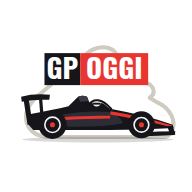
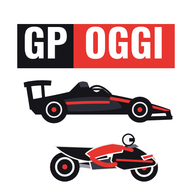
Nuova icona dell'app: etichetta, monoposto e moto senza la pista tagliata
Claude-Session: https://claude.ai/code/session_01LSjs3G4VKcQCCA7ZSvC7tc

diff --git a/docs/index.html b/docs/index.html
@@ -4,8 +4,8 @@
 <meta charset="utf-8">
 <meta name="viewport" content="width=device-width, initial-scale=1">
 <script>try{var t=null,q=/[?&]tema=(light|dark)/.exec(location.search);if(q)t=q[1];try{if(t)localStorage.setItem("tema",t);else t=localStorage.getItem("tema")}catch(e){}if(!t){var m=/(?:^|;)gpoggi-tema=(light|dark)/.exec(window.name);t=m&&m[1]}document.documentElement.dataset.theme=t||"light"}catch(e){document.documentElement.dataset.theme="light"}</script>
-<link rel="icon" type="image/png" href="img/favicon-64.png">
-<link rel="apple-touch-icon" href="img/apple-touch-icon.png">
+<link rel="icon" type="image/png" href="img/favicon-64.png?v=2">
+<link rel="apple-touch-icon" href="img/apple-touch-icon.png?v=2">
 <link rel="manifest" href="manifest.json">
 <meta name="theme-color" content="#f5f4f0">
 <title>GP Oggi — Formula 1 e MotoGP, tutto in un posto</title>

diff --git a/docs/gare.html b/docs/gare.html
@@ -4,8 +4,8 @@
 <meta charset="utf-8">
 <meta name="viewport" content="width=device-width, initial-scale=1">
 <script>try{var t=null,q=/[?&]tema=(light|dark)/.exec(location.search);if(q)t=q[1];try{if(t)localStorage.setItem("tema",t);else t=localStorage.getItem("tema")}catch(e){}if(!t){var m=/(?:^|;)gpoggi-tema=(light|dark)/.exec(window.name);t=m&&m[1]}document.documentElement.dataset.theme=t||"light"}catch(e){document.documentElement.dataset.theme="light"}</script>
-<link rel="icon" type="image/png" href="img/favicon-64.png">
-<link rel="apple-touch-icon" href="img/apple-touch-icon.png">
+<link rel="icon" type="image/png" href="img/favicon-64.png?v=2">
+<link rel="apple-touch-icon" href="img/apple-touch-icon.png?v=2">
 <link rel="manifest" href="manifest.json">
 <meta name="theme-color" content="#f5f4f0">
 <title>Calendario F1 — Weekend di gara | GP Oggi</title>

diff --git a/docs/storico-moto.html b/docs/storico-moto.html
@@ -4,8 +4,8 @@
 <meta charset="utf-8">
 <meta name="viewport" content="width=device-width, initial-scale=1">
 <script>try{var t=null,q=/[?&]tema=(light|dark)/.exec(location.search);if(q)t=q[1];try{if(t)localStorage.setItem("tema",t);else t=localStorage.getItem("tema")}catch(e){}if(!t){var m=/(?:^|;)gpoggi-tema=(light|dark)/.exec(window.name);t=m&&m[1]}document.documentElement.dataset.theme=t||"light"}catch(e){document.documentElement.dataset.theme="light"}</script>
-<link rel="icon" type="image/png" href="img/favicon-64.png">
-<link rel="apple-touch-icon" href="img/apple-touch-icon.png">
+<link rel="icon" type="image/png" href="img/favicon-64.png?v=2">
+<link rel="apple-touch-icon" href="img/apple-touch-icon.png?v=2">
 <link rel="manifest" href="manifest.json">
 <meta name="theme-color" content="#f5f4f0">
 <title>Pilota storico MotoGP — GP Oggi</title>

diff --git a/docs/archivio.html b/docs/archivio.html
@@ -4,8 +4,8 @@
 <meta charset="utf-8">
 <meta name="viewport" content="width=device-width, initial-scale=1">
 <script>try{var t=null,q=/[?&]tema=(light|dark)/.exec(location.search);if(q)t=q[1];try{if(t)localStorage.setItem("tema",t);else t=localStorage.getItem("tema")}catch(e){}if(!t){var m=/(?:^|;)gpoggi-tema=(light|dark)/.exec(window.name);t=m&&m[1]}document.documentElement.dataset.theme=t||"light"}catch(e){document.documentElement.dataset.theme="light"}</script>
-<link rel="icon" type="image/png" href="img/favicon-64.png">
-<link rel="apple-touch-icon" href="img/apple-touch-icon.png">
+<link rel="icon" type="image/png" href="img/favicon-64.png?v=2">
+<link rel="apple-touch-icon" href="img/apple-touch-icon.png?v=2">
 <link rel="manifest" href="manifest.json">
 <meta name="theme-color" content="#f5f4f0">
 <title>Archivio stagioni — GP Oggi</title>

diff --git a/docs/confronto.html b/docs/confronto.html
@@ -4,8 +4,8 @@
 <meta charset="utf-8">
 <meta name="viewport" content="width=device-width, initial-scale=1">
 <script>try{var t=null,q=/[?&]tema=(light|dark)/.exec(location.search);if(q)t=q[1];try{if(t)localStorage.setItem("tema",t);else t=localStorage.getItem("tema")}catch(e){}if(!t){var m=/(?:^|;)gpoggi-tema=(light|dark)/.exec(window.name);t=m&&m[1]}document.documentElement.dataset.theme=t||"light"}catch(e){document.documentElement.dataset.theme="light"}</script>
-<link rel="icon" type="image/png" href="img/favicon-64.png">
-<link rel="apple-touch-icon" href="img/apple-touch-icon.png">
+<link rel="icon" type="image/png" href="img/favicon-64.png?v=2">
+<link rel="apple-touch-icon" href="img/apple-touch-icon.png?v=2">
 <link rel="manifest" href="manifest.json">
 <meta name="theme-color" content="#f5f4f0">
 <title>Confronto piloti F1 | GP Oggi</title>

diff --git a/docs/motogp-archivio.html b/docs/motogp-archivio.html
@@ -4,8 +4,8 @@
 <meta charset="utf-8">
 <meta name="viewport" content="width=device-width, initial-scale=1">
 <script>try{var t=null,q=/[?&]tema=(light|dark)/.exec(location.search);if(q)t=q[1];try{if(t)localStorage.setItem("tema",t);else t=localStorage.getItem("tema")}catch(e){}if(!t){var m=/(?:^|;)gpoggi-tema=(light|dark)/.exec(window.name);t=m&&m[1]}document.documentElement.dataset.theme=t||"light"}catch(e){document.documentElement.dataset.theme="light"}</script>
-<link rel="icon" type="image/png" href="img/favicon-64.png">
-<link rel="apple-touch-icon" href="img/apple-touch-icon.png">
+<link rel="icon" type="image/png" href="img/favicon-64.png?v=2">
+<link rel="apple-touch-icon" href="img/apple-touch-icon.png?v=2">
 <link rel="manifest" href="manifest.json">
 <meta name="theme-color" content="#f5f4f0">
 <title>Archivio MotoGP — GP Oggi</title>

diff --git a/docs/storici.html b/docs/storici.html
@@ -4,8 +4,8 @@
 <meta charset="utf-8">
 <meta name="viewport" content="width=device-width, initial-scale=1">
 <script>try{var t=null,q=/[?&]tema=(light|dark)/.exec(location.search);if(q)t=q[1];try{if(t)localStorage.setItem("tema",t);else t=localStorage.getItem("tema")}catch(e){}if(!t){var m=/(?:^|;)gpoggi-tema=(light|dark)/.exec(window.name);t=m&&m[1]}document.documentElement.dataset.theme=t||"light"}catch(e){document.documentElement.dataset.theme="light"}</script>
-<link rel="icon" type="image/png" href="img/favicon-64.png">
-<link rel="apple-touch-icon" href="img/apple-touch-icon.png">
+<link rel="icon" type="image/png" href="img/favicon-64.png?v=2">
+<link rel="apple-touch-icon" href="img/apple-touch-icon.png?v=2">
 <link rel="manifest" href="manifest.json">
 <meta name="theme-color" content="#f5f4f0">
 <title>Piloti storici — GP Oggi</title>

diff --git a/docs/storico.html b/docs/storico.html
@@ -4,8 +4,8 @@
 <meta charset="utf-8">
 <meta name="viewport" content="width=device-width, initial-scale=1">
 <script>try{var t=null,q=/[?&]tema=(light|dark)/.exec(location.search);if(q)t=q[1];try{if(t)localStorage.setItem("tema",t);else t=localStorage.getItem("tema")}catch(e){}if(!t){var m=/(?:^|;)gpoggi-tema=(light|dark)/.exec(window.name);t=m&&m[1]}document.documentElement.dataset.theme=t||"light"}catch(e){document.documentElement.dataset.theme="light"}</script>
-<link rel="icon" type="image/png" href="img/favicon-64.png">
-<link rel="apple-touch-icon" href="img/apple-touch-icon.png">
+<link rel="icon" type="image/png" href="img/favicon-64.png?v=2">
+<link rel="apple-touch-icon" href="img/apple-touch-icon.png?v=2">
 <link rel="manifest" href="manifest.json">
 <meta name="theme-color" content="#f5f4f0">
 <title>Pilota storico — GP Oggi</title>

diff --git a/docs/gara.html b/docs/gara.html
@@ -4,8 +4,8 @@
 <meta charset="utf-8">
 <meta name="viewport" content="width=device-width, initial-scale=1">
 <script>try{var t=null,q=/[?&]tema=(light|dark)/.exec(location.search);if(q)t=q[1];try{if(t)localStorage.setItem("tema",t);else t=localStorage.getItem("tema")}catch(e){}if(!t){var m=/(?:^|;)gpoggi-tema=(light|dark)/.exec(window.name);t=m&&m[1]}document.documentElement.dataset.theme=t||"light"}catch(e){document.documentElement.dataset.theme="light"}</script>
-<link rel="icon" type="image/png" href="img/favicon-64.png">
-<link rel="apple-touch-icon" href="img/apple-touch-icon.png">
+<link rel="icon" type="image/png" href="img/favicon-64.png?v=2">
+<link rel="apple-touch-icon" href="img/apple-touch-icon.png?v=2">
 <link rel="manifest" href="manifest.json">
 <meta name="theme-color" content="#f5f4f0">
 <title>Weekend di gara | GP Oggi</title>

diff --git a/docs/pilota-moto.html b/docs/pilota-moto.html
@@ -4,8 +4,8 @@
 <meta charset="utf-8">
 <meta name="viewport" content="width=device-width, initial-scale=1">
 <script>try{var t=null,q=/[?&]tema=(light|dark)/.exec(location.search);if(q)t=q[1];try{if(t)localStorage.setItem("tema",t);else t=localStorage.getItem("tema")}catch(e){}if(!t){var m=/(?:^|;)gpoggi-tema=(light|dark)/.exec(window.name);t=m&&m[1]}document.documentElement.dataset.theme=t||"light"}catch(e){document.documentElement.dataset.theme="light"}</script>
-<link rel="icon" type="image/png" href="img/favicon-64.png">
-<link rel="apple-touch-icon" href="img/apple-touch-icon.png">
+<link rel="icon" type="image/png" href="img/favicon-64.png?v=2">
+<link rel="apple-touch-icon" href="img/apple-touch-icon.png?v=2">
 <link rel="manifest" href="manifest.json">
 <meta name="theme-color" content="#f5f4f0">
 <title>Pilota MotoGP — GP Oggi</title>

diff --git a/docs/classifiche.html b/docs/classifiche.html
@@ -4,8 +4,8 @@
 <meta charset="utf-8">
 <meta name="viewport" content="width=device-width, initial-scale=1">
 <script>try{var t=null,q=/[?&]tema=(light|dark)/.exec(location.search);if(q)t=q[1];try{if(t)localStorage.setItem("tema",t);else t=localStorage.getItem("tema")}catch(e){}if(!t){var m=/(?:^|;)gpoggi-tema=(light|dark)/.exec(window.name);t=m&&m[1]}document.documentElement.dataset.theme=t||"light"}catch(e){document.documentElement.dataset.theme="light"}</script>
-<link rel="icon" type="image/png" href="img/favicon-64.png">
-<link rel="apple-touch-icon" href="img/apple-touch-icon.png">
+<link rel="icon" type="image/png" href="img/favicon-64.png?v=2">
+<link rel="apple-touch-icon" href="img/apple-touch-icon.png?v=2">
 <link rel="manifest" href="manifest.json">
 <meta name="theme-color" content="#f5f4f0">
 <title>Classifiche — GP Oggi</title>

diff --git a/docs/gara-moto.html b/docs/gara-moto.html
@@ -4,8 +4,8 @@
 <meta charset="utf-8">
 <meta name="viewport" content="width=device-width, initial-scale=1">
 <script>try{var t=null,q=/[?&]tema=(light|dark)/.exec(location.search);if(q)t=q[1];try{if(t)localStorage.setItem("tema",t);else t=localStorage.getItem("tema")}catch(e){}if(!t){var m=/(?:^|;)gpoggi-tema=(light|dark)/.exec(window.name);t=m&&m[1]}document.documentElement.dataset.theme=t||"light"}catch(e){document.documentElement.dataset.theme="light"}</script>
-<link rel="icon" type="image/png" href="img/favicon-64.png">
-<link rel="apple-touch-icon" href="img/apple-touch-icon.png">
+<link rel="icon" type="image/png" href="img/favicon-64.png?v=2">
+<link rel="apple-touch-icon" href="img/apple-touch-icon.png?v=2">
 <link rel="manifest" href="manifest.json">
 <meta name="theme-color" content="#f5f4f0">
 <title>Gran Premio — GP Oggi</title>
